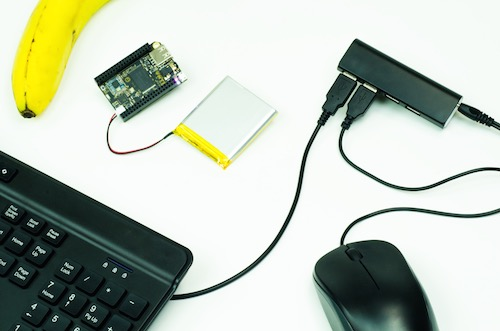
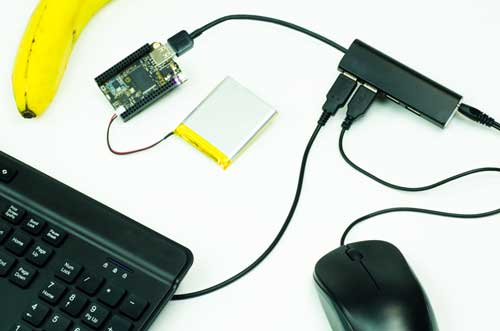
fixed usb pic with a bit o shop

diff --git a/source/includes/_connecting-accys.md b/source/includes/_connecting-accys.md
@@ -21,8 +21,6 @@ Additionally, some of the advanced tutorials require:
 ## Powered USB Hub
 You'll find that a simple powered USB hub is pretty essential if you want to use a lot of USB devices with CHIP. Not only is there only one USB port (keeping CHIP nice and small), but CHIP's micro USB power port can only provide so much power for the USB port. If you don't have a powered USB port, you'll quickly max out power if you attach too many accessories. 
 
-![powered USB hub connected to CHIP](images/chip_usbhub.jpg)
-
 ## Keyboard and Mouse
 Many keyboards have USB hubs built-in, so you can attach a mouse to the keyboard, attach the keyboard to CHIP, and immediately have control. However, it's likely the two will draw too much current, so you'll want to connect to a powered hub before you connect.
 
